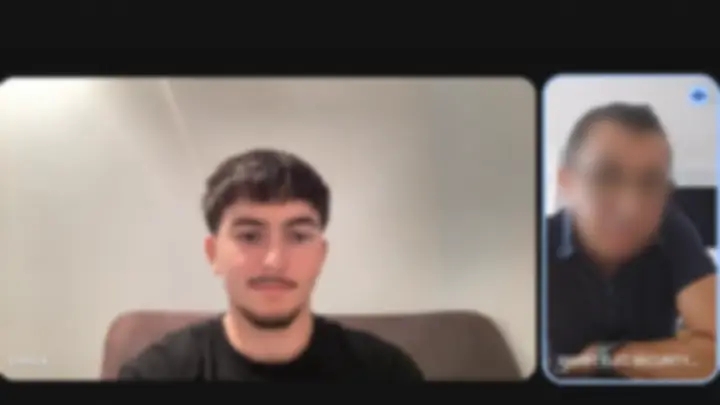
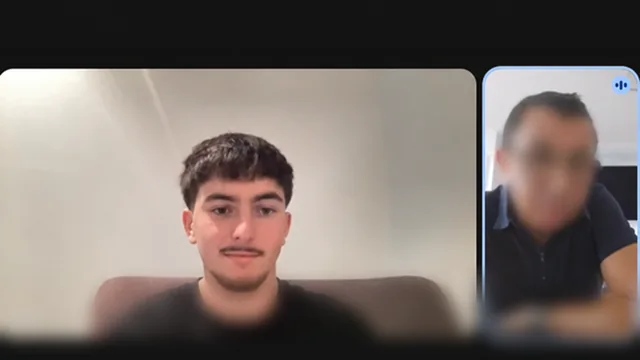
Les visios sont nettes, et elles défilent plus vite
Le flou disparaît : plus de `blur()` sur la bande, et les images sont
réexportées sans adoucissement général. Reste la correction de
luminosité — le fond de Meet est noir, sans elle les captures
s'effacent sur la page encre.

Le défilement passe de 17 à 46 px/s : une capture traverse maintenant
en sept secondes au lieu de vingt.

Les noms. Sans flou d'ensemble, les libellés que Meet écrit sous chaque
vignette redevenaient lisibles — « W. Destina ("Destl Renova") »,
« Taralit Sané », et trois autres. Seule la bande basse est donc
adoucie, en fondu pour qu'il n'y ait pas de ligne de coupe : les noms
partent, les visages et la scène restent nets.

Vérifié : titre à 8,97:1 et paragraphe à 4,79:1 dans le pire cas
mesuré, toutes les cartes forcées en blanc. Rien ne déborde à 320 et
360 px, et en mouvement réduit l'arc ne défile toujours pas.

diff --git a/visio.css b/visio.css
@@ -2,9 +2,8 @@
    « ON PARLE DE VOTRE PROJET ? »
 
    Plus de carte encadrée : le bloc s'ouvre sur la page, et nos visios
-   passent derrière, sur un arc, floutées. Le flou n'est pas qu'un effet —
-   c'est ce qui garde le texte lisible par-dessus, et ce qui fait que
-   personne ne reconnaît un client dans le décor.
+   passent derrière, sur un arc. Ce qui garde le texte lisible par-dessus,
+   c'est le voile — mesuré, pas estimé.
 
    À charger APRÈS theme-ink.css.
    ========================================================================= */
@@ -29,9 +28,9 @@
 
 .visio-piste {
   position: absolute; inset: 0;
-  /* les captures sont sombres — le fond de Meet est noir : on les relève
-     un peu, sinon l'arc ne se devine pas sur la page encre */
-  filter: blur(7px) saturate(.9) brightness(1.3);
+  /* les captures restent nettes ; on les relève seulement, parce que le
+     fond de Meet est noir et qu'elles disparaîtraient sur la page encre */
+  filter: saturate(.95) brightness(1.22);
   will-change: transform;
 }
 .visio-carte {
@@ -76,7 +75,7 @@
 }
 
 @media (max-width: 700px) {
-  .visio-piste { filter: blur(5px) saturate(.9) brightness(1.3); }
+  .visio-piste { filter: saturate(.95) brightness(1.22); }
   .visio-fond.visio-prete { opacity: .5; }
   /* le voile se desserre : sur un écran étroit les cartes passent toutes
      par le centre, et à la densité du grand écran on ne voyait plus rien */

diff --git a/visio.js b/visio.js
@@ -27,7 +27,7 @@
   scenes.forEach(function (scene) {
     var n = parseInt(scene.getAttribute('data-visio-nb'), 10) || 14;
     var base = scene.getAttribute('data-visio-src') || 'assets/visio/';
-    var vitesse = parseFloat(scene.getAttribute('data-visio-vitesse')) || 17;
+    var vitesse = parseFloat(scene.getAttribute('data-visio-vitesse')) || 46;
 
     /* ---- les cartes --------------------------------------------------- */
     var cartes = [];
